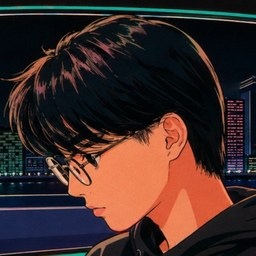
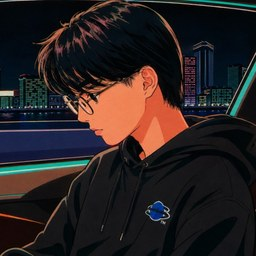
change: アイコンのトリミングと配置を変更
服まで入る構図に切り直し、名前の行の左に44pxで並べた。
独立したブロックから名前とセットの並びにしたことで、見出しまでの
縦の距離が縮まり、視線が名前から見出しへ素直に流れるようにしている。

Claude-Session: https://claude.ai/code/session_014VmStuf5rMvbRNYrfMrtaY

diff --git a/index.html b/index.html
@@ -55,8 +55,10 @@
 
     <section class="hero">
       <div class="container">
-        <img class="avatar" src="./images/avatar.jpg" width="72" height="72" alt="" />
-        <p class="eyebrow">櫻田 海斗 — Kaito Sakurada</p>
+        <div class="hero-id">
+          <img class="avatar" src="./images/avatar.jpg" width="44" height="44" alt="" />
+          <p class="eyebrow">櫻田 海斗 — Kaito Sakurada</p>
+        </div>
         <h1>ユーザー価値と事業成果の両方に貢献できる<br />エンジニアを目指しています。</h1>
         <p class="lead">
           GoとAWSを軸に、設計から実行基盤の構築まで。社会を前に進めることに関心があります。

diff --git a/style.css b/style.css
@@ -121,14 +121,22 @@ a{ color:inherit; text-decoration:none; }
   border-bottom:1px solid var(--line);
 }
 
+.hero-id{
+  display:flex;
+  align-items:center;
+  gap:14px;
+  margin:0 0 26px;
+}
+.hero-id .eyebrow{ margin:0; }
+
 .avatar{
   display:block;
-  width:72px;
-  height:72px;
+  width:44px;
+  height:44px;
   border-radius:50%;
   border:1px solid var(--line);
-  margin:0 0 26px;
   object-fit:cover;
+  flex:none;
 }
 
 .eyebrow{
